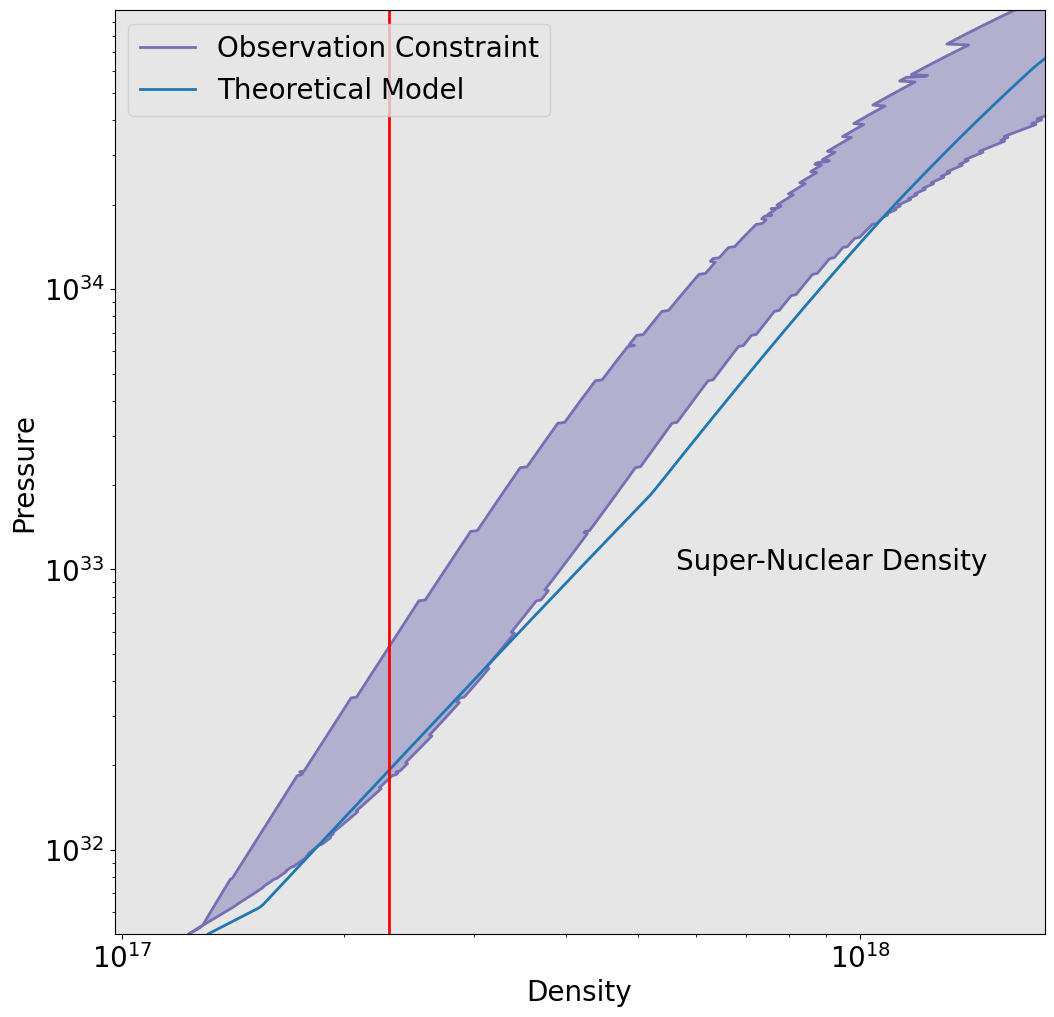
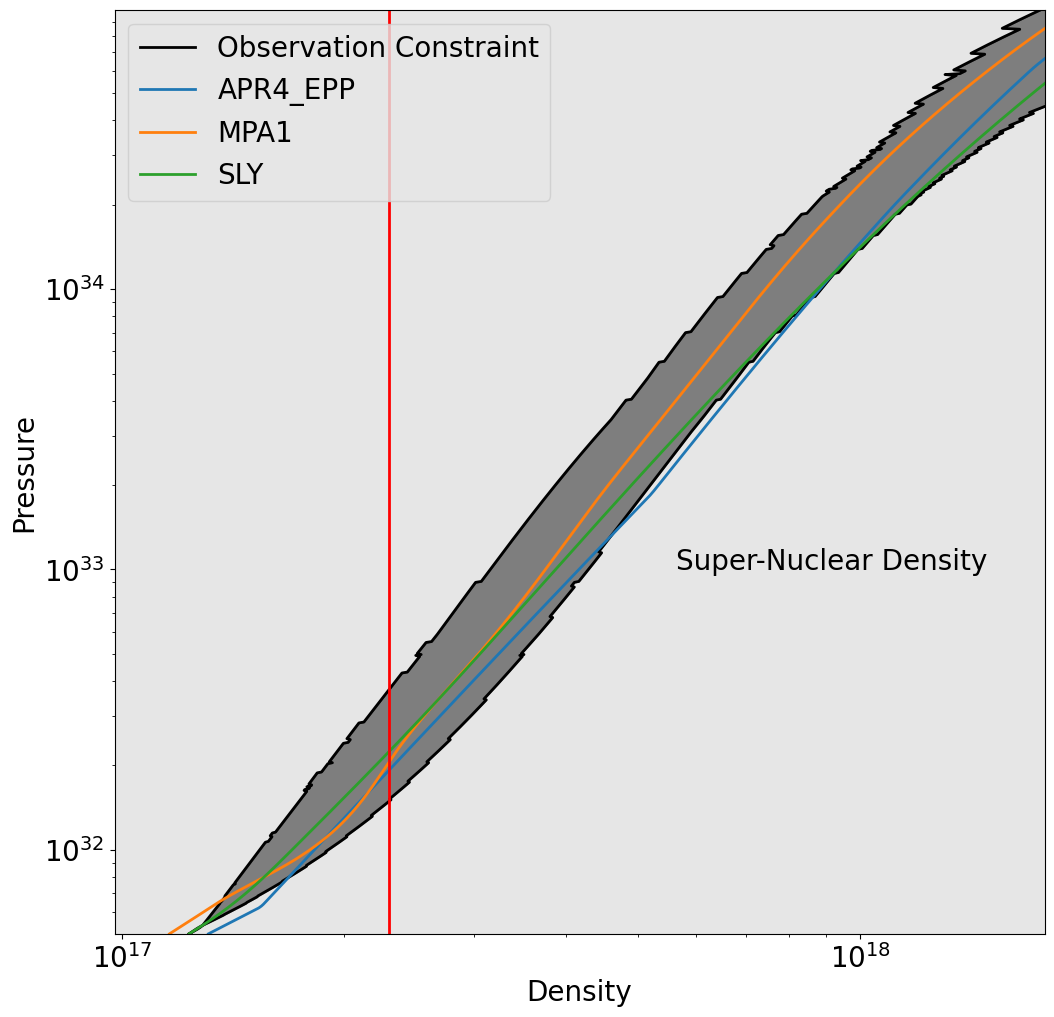
Final CASABONA plot revisions 16

Changed region(s): [[0.1822, 0.0, 1.0, 0.9145], [0.2125, 0.061, 0.425, 0.1829]]

diff --git a/joint_inference/development/SpringPresentation.py b/joint_inference/development/SpringPresentation.py
@@ -56,9 +56,10 @@ def overlap_namedEoS_constraint_p_rho(EoS_Names):
     pl.rc('ytick', direction='out', color='black', labelcolor='black')
     pl.rc('lines', linewidth=2)
 
-    File = "run_data/8th_cutoff_plotting/spectral_p_vs_rho_cutoff_W100_S10000_J0030_confidence.txt"
+    #File = "run_data/8th_cutoff_plotting/spectral_p_vs_rho_cutoff_W100_S10000_J0030_confidence.txt"
+    File = "run_data/8th_cutoff_plotting/spectral_p_vs_rho_cutoff_W100_S10000_GW170817_J0030_hierarchical_confidence.txt"
     label = "Observation Constraint"
-    color = "#7570b3"
+    color = "#000000"
     logp_grid, lower_bound, median, upper_bound = np.loadtxt(File).T
 
     ax1 = pl.gca()
@@ -69,11 +70,6 @@ def overlap_namedEoS_constraint_p_rho(EoS_Names):
     pl.plot(upper_bound, logp_grid, color=color)
     ax1.fill_betweenx(logp_grid, lower_bound, x2=upper_bound, color=color, alpha=0.45)
 
-    #N = 1000
-    #min_log_pressure = 31.5 # Adjusted from 31.7 for overlap plot
-    #max_log_pressure = 35.0
-    #logp_grid = np.linspace(min_log_pressure, max_log_pressure, N+1)
-    #logp_grid = logp_grid[:-1] # last val is max log pressure. For spectral method, density computation at this pressure causes a runtime error
     for EoS_Name in EoS_Names:
 
         density_grid = []
@@ -87,7 +83,8 @@ def overlap_namedEoS_constraint_p_rho(EoS_Names):
             except RuntimeError: 
                 continue # ran into runtime error at some point due to energydensityofpressure function
 
-        pl.plot(density_grid, safety_logp_grid, label="Theoretical Model")
+        #pl.plot(density_grid, safety_logp_grid, label="Theoretical Model")
+        pl.plot(density_grid, safety_logp_grid, label=EoS_Name)
 
     pl.vlines(x=2.3*10**17,ymin=min(logp_grid),ymax=max(logp_grid),color="red")
     pl.text(10**17.75,10**33,"Super-Nuclear Density",fontsize=20)
